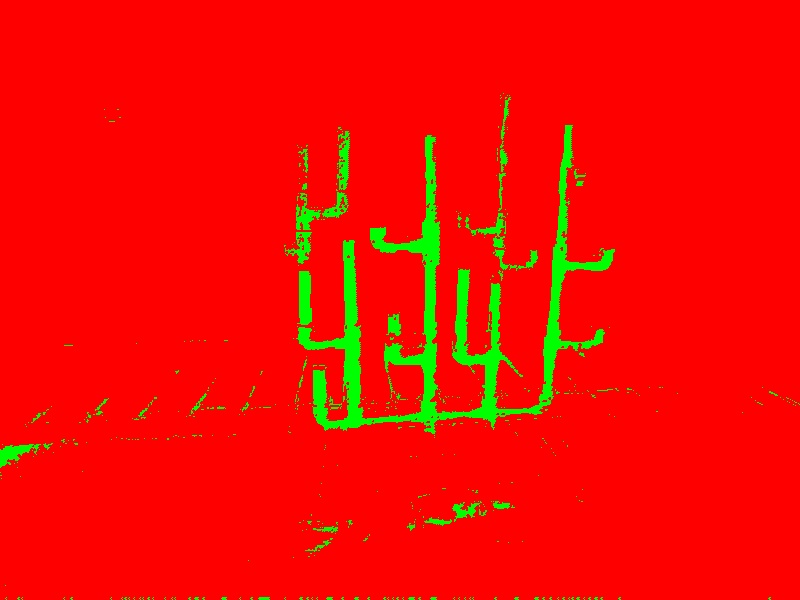
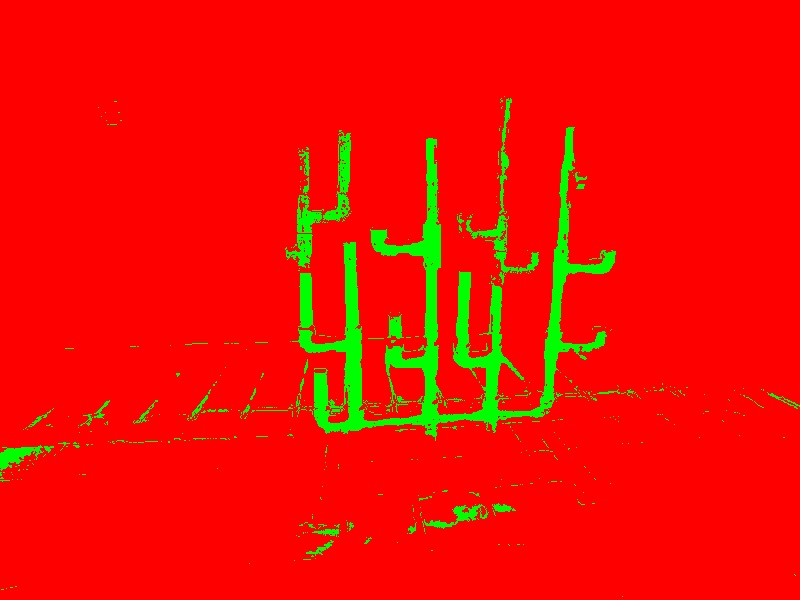
Fix grabcut to get better output rect

diff --git a/scripts/grabcut/contour.py b/scripts/grabcut/contour.py
@@ -2,11 +2,11 @@ import cv2
 import numpy as np
 from numpy.lib.type_check import _imag_dispatcher
 
-img = cv2.imread("edited_src.jpg")
+img_drawrect = cv2.imread("edited_src.jpg")
 
-image_gray = cv2.cvtColor(img, cv2.COLOR_BGR2GRAY)
-_,threshold = cv2.threshold(image_gray,127, 255,0)
-cv2.imshow("thresh", threshold)
+image_gray = cv2.cvtColor(img_drawrect, cv2.COLOR_BGR2GRAY)
+_, threshold = cv2.threshold(image_gray,127, 255,0)
+#cv2.imshow("thresh", threshold)
 # cv2.waitKey(0)
 
 contours, hierarchy = cv2.findContours(threshold, cv2.RETR_EXTERNAL, cv2.CHAIN_APPROX_SIMPLE)
@@ -14,49 +14,59 @@ contours, hierarchy = cv2.findContours(threshold, cv2.RETR_EXTERNAL, cv2.CHAIN_A
 
 # biggest_contour = max(contour_sizes, key=lambda x: x[0])[1]
 # print(biggest_contour)
-# cv2.drawContours(img, biggest_contour, -1, [255,0,0], thickness=3)
+# cv2.drawContours(img_drawrect, biggest_contour, -1, [255,0,0], thickness=3)
 
 # min_val, max_val, min_loc, max_loc = cv2.minMaxLoc(biggest_contour)
-# w, h = img.shape[::-1]
+# w, h = img_drawrect.shape[::-1]
 # top_left = min_loc
 # bottom_right = (top_left[0] + w, top_left[1] + h)
-# cv2.rectangle(img,top_left, bottom_right, 255, 2)
+# cv2.rectangle(img_drawrect,top_left, bottom_right, 255, 2)
 
 
 # draw in blue the contours that were founded
-cv2.drawContours(img, contours, -1, 255, thickness=1)
+cv2.drawContours(img_drawrect, contours, -1, 255, thickness=1)
 
 # find the biggest countour (c) by the area
 c = max(contours, key = cv2.contourArea)
 x,y,w,h = cv2.boundingRect(c)
 
 # draw the biggest contour (c) in green
-cv2.rectangle(img,(x-20,y-20),(x+w+20,y+h+20),(0,255,0),2)
+cv2.rectangle(img_drawrect,(x-20,y-35),(x+w+20,y+h+20),(0,255,0),2)
 
-cv2.imshow("rect", img)
+cv2.imshow("rect", img_drawrect)
 # cv2.waitKey(0)
 
 src_src = cv2.imread("coral_under3.JPG")
-in_mask = cv2.imread("edited_mask.jpg")
-mask = np.zeros(src_src.shape[:2], dtype = np.uint8)
+rect = (x-20, y-35, w + 40, h+40)
 
-for i in range(0, 600):
-    for j in range(0, 800):
-        if np.any(in_mask[i, j] == 3):
-            cv2.circle(mask, (j-1, i-1), 1, 3, -1)
-        else:
-            cv2.circle(mask, (j-1, i-1), 1, 2, -1)
+mask = cv2.imread("edited_mask.jpg", cv2.IMREAD_GRAYSCALE)
 
-rect = (x-20, y-20, x+w+20, y+h+20)
+""" TODO: Trying to remove the need for the colored image by using mask instead, but the threshold mask is empty """
+# cv2.imshow("edited_mask", mask)
+
+# minthresh = 1
+# _, thresh_mask = cv2.threshold(mask, minthresh, 255, cv2.THRESH_BINARY)
+# cv2.imshow("thresh_mask", thresh_mask)
+# cv2.waitKey(0)
+# mask = np.zeros(src_src.shape[:2], dtype = np.uint8)
+
+# for i in range(0, 600):
+#     for j in range(0, 800):
+#         if np.any(in_mask[i, j] == 3):
+#             cv2.circle(mask, (j-1, i-1), 1, 3, -1)
+#         else:
+#             cv2.circle(mask, (j-1, i-1), 1, 2, -1)
 
 try:
     bgdmodel = np.zeros((1, 65), np.float64)
     fgdmodel = np.zeros((1, 65), np.float64)
     # if (self.rect_or_mask == 0):         # grabcut with rect
+    itercount = 1
     cv2.grabCut(src_src, mask, rect, bgdmodel, fgdmodel, 1, cv2.GC_INIT_WITH_RECT)
+    cv2.grabCut(src_src, mask, rect, bgdmodel, fgdmodel, itercount, cv2.GC_INIT_WITH_MASK)
         # self.rect_or_mask = 1
     # elif (self.rect_or_mask == 1):       # grabcut with mask
-    cv2.grabCut(src_src, mask, rect, bgdmodel, fgdmodel, 1, cv2.GC_INIT_WITH_MASK)
+    # cv2.grabCut(src_src, mask, rect, bgdmodel, fgdmodel, 1, cv2.GC_INIT_WITH_MASK)
 except:
     import traceback
     traceback.print_exc()
@@ -66,18 +76,18 @@ mask2 = np.where((mask==1) + (mask==3), 255, 0).astype('uint8')
 if mask2 is None:
     exit("ERROR: mask2 None")
 
-
 # print("src", src_src.shape)
 # print("mask2", mask2.shape)
 # print(mask2[0,0])
 
 # mask2 = cv2.cvtColor(mask2, cv2.COLOR_BGR2GRAY)
 _, mask2 = cv2.threshold(mask2, 1, 255, cv2.THRESH_BINARY)
-cv2.imshow("thresh", mask2)
+#cv2.imshow("thresh", mask2)
 print(mask2.shape)
-cv2.waitKey(0)
+# cv2.waitKey(0)
 
 output = cv2.bitwise_and(src_src, src_src, mask=mask2)
 
 cv2.imshow("OUTPUT", output)
+cv2.imwrite("out_rect.jpg", output)
 cv2.waitKey(0)

diff --git a/scripts/kmeans/kmc_func.py b/scripts/kmeans/kmc_func.py
@@ -17,6 +17,10 @@ def kmc_color_quantization(src, K, bgr_or_hsv = 'b', plot_graph = False):
     # define criteria, number of clusters(K) and apply kmeans()
     criteria = (cv2.TERM_CRITERIA_EPS + cv2.TERM_CRITERIA_MAX_ITER, 10, 1.0)
     ret,label,center=cv2.kmeans(Z,K,None,criteria,10,cv2.KMEANS_RANDOM_CENTERS)
+    print("K=", K)
+    print("Compactness=", ret)
+    print(len(label), "Labels=", label)
+    print(len(center), "Centers=", center)
 
     # Now convert back into uint8, and make original image
     center = np.uint8(center)
@@ -43,40 +47,35 @@ def kmc_color_quantization(src, K, bgr_or_hsv = 'b', plot_graph = False):
 
     return res2
     
+K = [3,4,5]
 
 # main
 
-img = cv2.imread("../res/contrast_coral.jpg")
+img = cv2.imread("../res/out_rect.jpg")
 plt.subplot(241), plt.imshow(cv2.cvtColor(img, cv2.COLOR_BGR2RGB)), plt.title("Input")
 
-K = 3
-res1 = kmc_color_quantization(img, K)
-plt.subplot(242), plt.imshow(cv2.cvtColor(res1, cv2.COLOR_BGR2RGB)), plt.title("K={}".format(K))
+res1 = kmc_color_quantization(img, K[0])
+plt.subplot(242), plt.imshow(cv2.cvtColor(res1, cv2.COLOR_BGR2RGB)), plt.title("K={}".format(K[0]))
 
-K = 5
-res2 = kmc_color_quantization(img, K)
-plt.subplot(243), plt.imshow(cv2.cvtColor(res2, cv2.COLOR_BGR2RGB)), plt.title("K={}".format(K))
+res2 = kmc_color_quantization(img, K[1])
+plt.subplot(243), plt.imshow(cv2.cvtColor(res2, cv2.COLOR_BGR2RGB)), plt.title("K={}".format(K[1]))
 
-K = 10
-res3 = kmc_color_quantization(img, K)
-plt.subplot(244), plt.imshow(cv2.cvtColor(res3, cv2.COLOR_BGR2RGB)), plt.title("K={}".format(K))
+res3 = kmc_color_quantization(img, K[2])
+plt.subplot(244), plt.imshow(cv2.cvtColor(res3, cv2.COLOR_BGR2RGB)), plt.title("K={}".format(K[2]))
 
 """ HSV """
 hsv = cv2.cvtColor(img, cv2.COLOR_BGR2HSV)
 
 plt.subplot(245), plt.imshow(cv2.cvtColor(img, cv2.COLOR_BGR2HSV)), plt.title("HSV shown in RGB")
 
-K = 3
-res1 = kmc_color_quantization(img, K, bgr_or_hsv='h')
-plt.subplot(246), plt.imshow(cv2.cvtColor(res1, cv2.COLOR_BGR2RGB)), plt.title("K={}".format(K))
+res1 = kmc_color_quantization(img, K[0], bgr_or_hsv='h')
+plt.subplot(246), plt.imshow(cv2.cvtColor(res1, cv2.COLOR_BGR2RGB)), plt.title("K={}".format(K[0]))
 
-K = 5
-res2 = kmc_color_quantization(img, K, bgr_or_hsv='h')
-plt.subplot(247), plt.imshow(cv2.cvtColor(res2, cv2.COLOR_BGR2RGB)), plt.title("K={}".format(K))
+res2 = kmc_color_quantization(img, K[1], bgr_or_hsv='h')
+plt.subplot(247), plt.imshow(cv2.cvtColor(res2, cv2.COLOR_BGR2RGB)), plt.title("K={}".format(K[1]))
 
-K = 10
-res3 = kmc_color_quantization(img, K, bgr_or_hsv='h')
-plt.subplot(248), plt.imshow(cv2.cvtColor(res3, cv2.COLOR_BGR2RGB)), plt.title("K={}".format(K))
+res3 = kmc_color_quantization(img, K[2], bgr_or_hsv='h')
+plt.subplot(248), plt.imshow(cv2.cvtColor(res3, cv2.COLOR_BGR2RGB)), plt.title("K={}".format(K[2]))
 
 plt.tight_layout()
 plt.show()

diff --git a/scripts/grabcut/values.py b/scripts/grabcut/values.py
@@ -2,10 +2,9 @@ import cv2
 import numpy as np
 
 img_src = cv2.imread("coral_under3.jpg")
-mask = cv2.imread("coral_mask.jpg")
+mask = cv2.imread("coral_mask.jpg", cv2.IMREAD_GRAYSCALE)
 
-height, width, depth = mask.shape
-print(mask.shape)
+height, width = mask.shape
 cv2.waitKey(0)
 
 # cv2.imshow("BEFORE THRESHOLD", mask)
@@ -14,19 +13,29 @@ _, mask = cv2.threshold(mask, 127, 255, cv2.THRESH_BINARY)
 # cv2.waitKey(0)
 
 
+# for i in range(0, height):
+#     for j in range(0, width):
+#         if np.any(mask[i,j] != 0):      # green for probable foreground
+#             img_src = cv2.circle(img_src, (j-1, i-1), radius=1, color=[0,255,0], thickness= -1)
+#             mask = cv2.circle(mask, (j-1, i-1), 1, 3, -1)
+#         else:                           # red for probable background
+#             img_src = cv2.circle(img_src, (j-1, i-1), 2, [0,0,255], -1)
+#             mask = cv2.circle(mask, (j-1, i-1), 2, 2, -1)
+
 for i in range(0, height):
     for j in range(0, width):
         if np.any(mask[i,j] != 0):      # green for probable foreground
-            img_src = cv2.circle(img_src, (j-1, i-1), radius=1, color=[0,255,0], thickness= -1)
-            mask = cv2.circle(mask, (j-1, i-1), 1, 3, -1)
-        else:                           # red for probable background
-            img_src = cv2.circle(img_src, (j-1, i-1), 2, [0,0,255], -1)
-            mask = cv2.circle(mask, (j-1, i-1), 2, 2, -1)
+            img_src[i, j] = (0,255,0)
+            mask[i, j] = 3
+        else:
+            img_src[i, j] = (0,0,255)
+            mask[i, j] = 2
+
+# np.where(mask==0, 2, 3).astype('uint8')
 
 cv2.imshow("img_src", img_src)
 cv2.imshow("mask", mask)
 
 cv2.waitKey(0)
-
 cv2.imwrite("edited_src.jpg", img_src)
 cv2.imwrite("edited_mask.jpg", mask)

diff --git a/coral_health/src/just_hsv_node.py b/coral_health/src/just_hsv_node.py
@@ -70,12 +70,14 @@ def main():
     rospy.loginfo("just_hsv_node initialized")
 
     """ TODO: CHANGE ABSOLUTE PATH ACCORDING TO CONTROL BOX """
-    old_src = cv2.imread("/home/oscar/catkin_ws/src/coral_health/src/old_scaled40.jpg")
+    path_old_src = "../resources/old_scaled40.jpg"
+    old_src = cv2.imread(path_old_src)
     if old_src is None:
-        old_src = cv2.imread("/home/hammerhead/catkin_ws/src/coral_health/resources/old_scaled40.jpg")
-    if old_src is None:
-        old_src = cv2.imread("/home/vmdang/catkin_ws/src/coral_health/resources/old_scaled40.jpg")
-    old = coral_image(old_src, [30,50,50])
+        rospy.signal_shutdown("ERROR: failed to read reference image: {}".format(path_old_src))
+    #     old_src = cv2.imread("/home/hammerhead/catkin_ws/src/coral_health/resources/old_scaled40.jpg")
+    # if old_src is None:
+    #     old_src = cv2.imread("/home/vmdang/catkin_ws/src/coral_health/resources/old_scaled40.jpg")
+    # old = coral_image(old_src, [30,50,50])
     # old.background_remover(False, waitKeyTime)
     # old.alignment()
     # cv2.waitKey(0)

diff --git a/scripts/simple_hsv/eyedropper.py b/scripts/simple_hsv/eyedropper.py
@@ -130,9 +130,12 @@ if __name__ == "__main__":
     cv2.imshow("white_mask", white_mask)
     cv2.destroyWindow("temp_mask")
 
+    if pink_mask is None or white_mask is None:
+        exit("ERROR: mask empty")
     pw_mask = cv2.bitwise_or(pink_mask, white_mask)
     cv2.imshow("combined_mask", pw_mask)
 
     cv2.waitKey(0)
-    cv2.imwrite("coral_mask.jpg", pw_mask)
+    # cv2.imwrite("coral_mask.jpg", pw_mask)
+    print(pw_mask.shape)
     cv2.destroyAllWindows()

diff --git a/scripts/grabcut/grabcut.py b/scripts/grabcut/grabcut.py
@@ -99,7 +99,7 @@ class App():
         else:
             print("No input image given, so loading default image, lena.jpg \n")
             print("Correct Usage: python grabcut.py <filename> \n")
-            filename = 'lena.jpg'
+            filename = 'coral_under3.JPG'
 
         self.img = cv.imread(cv.samples.findFile(filename))
         self.img2 = self.img.copy()                               # a copy of original image
